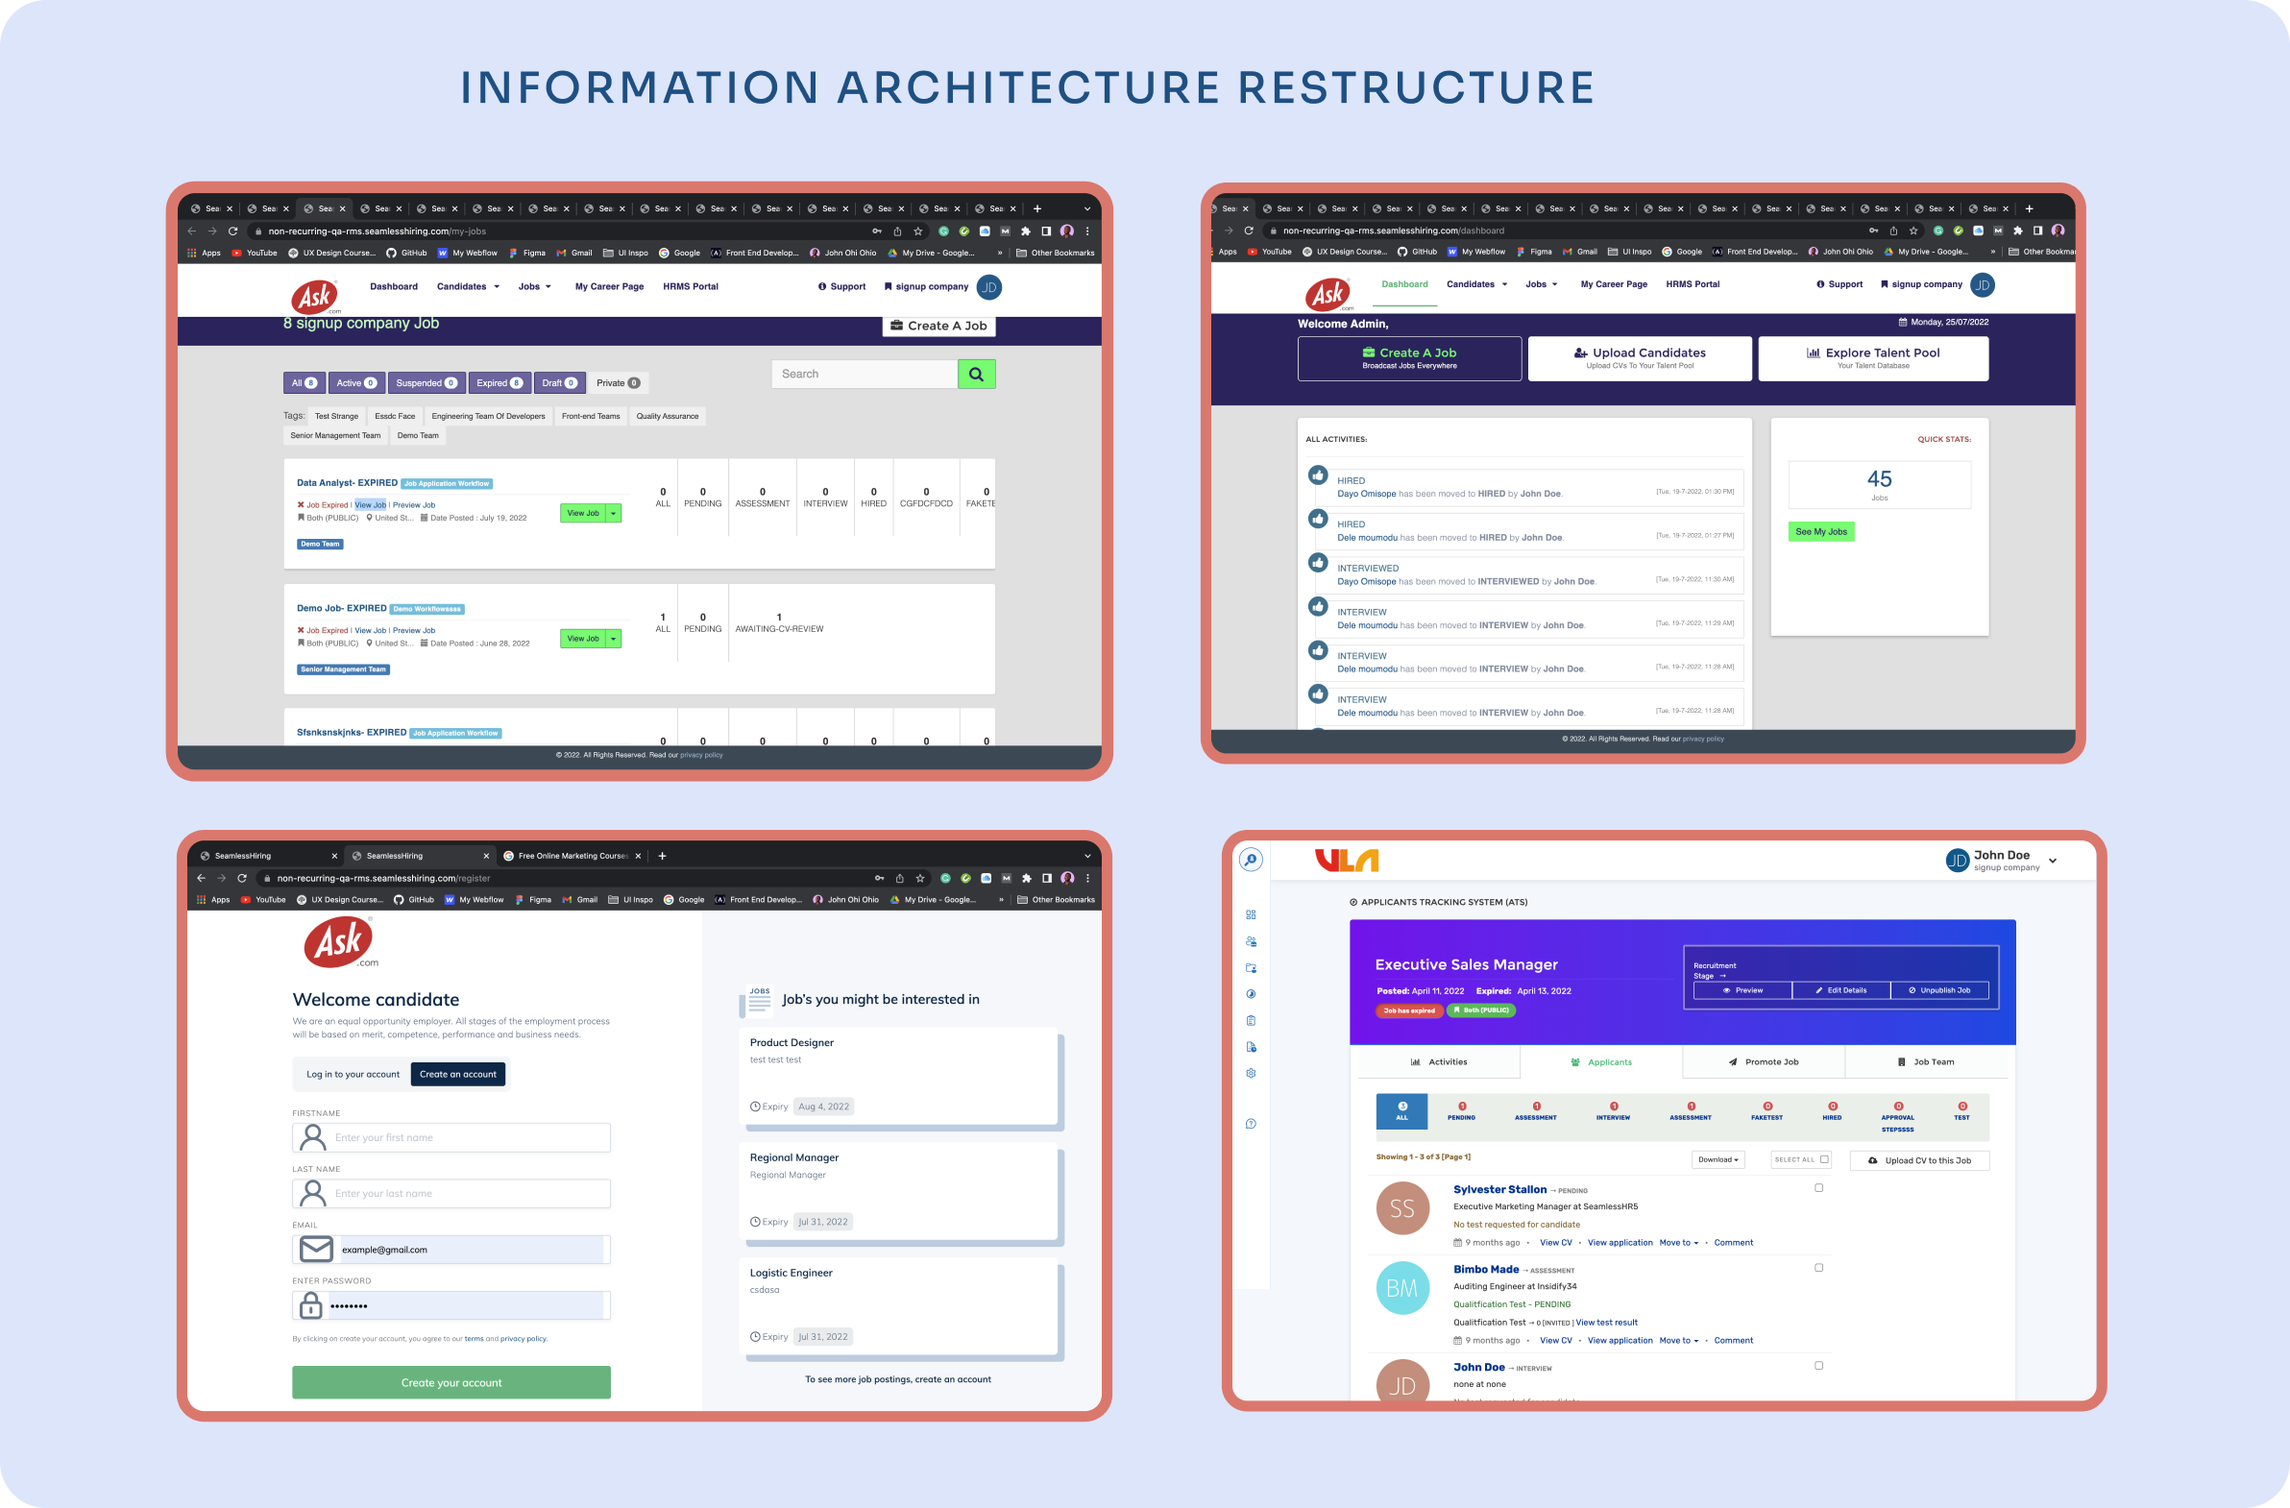
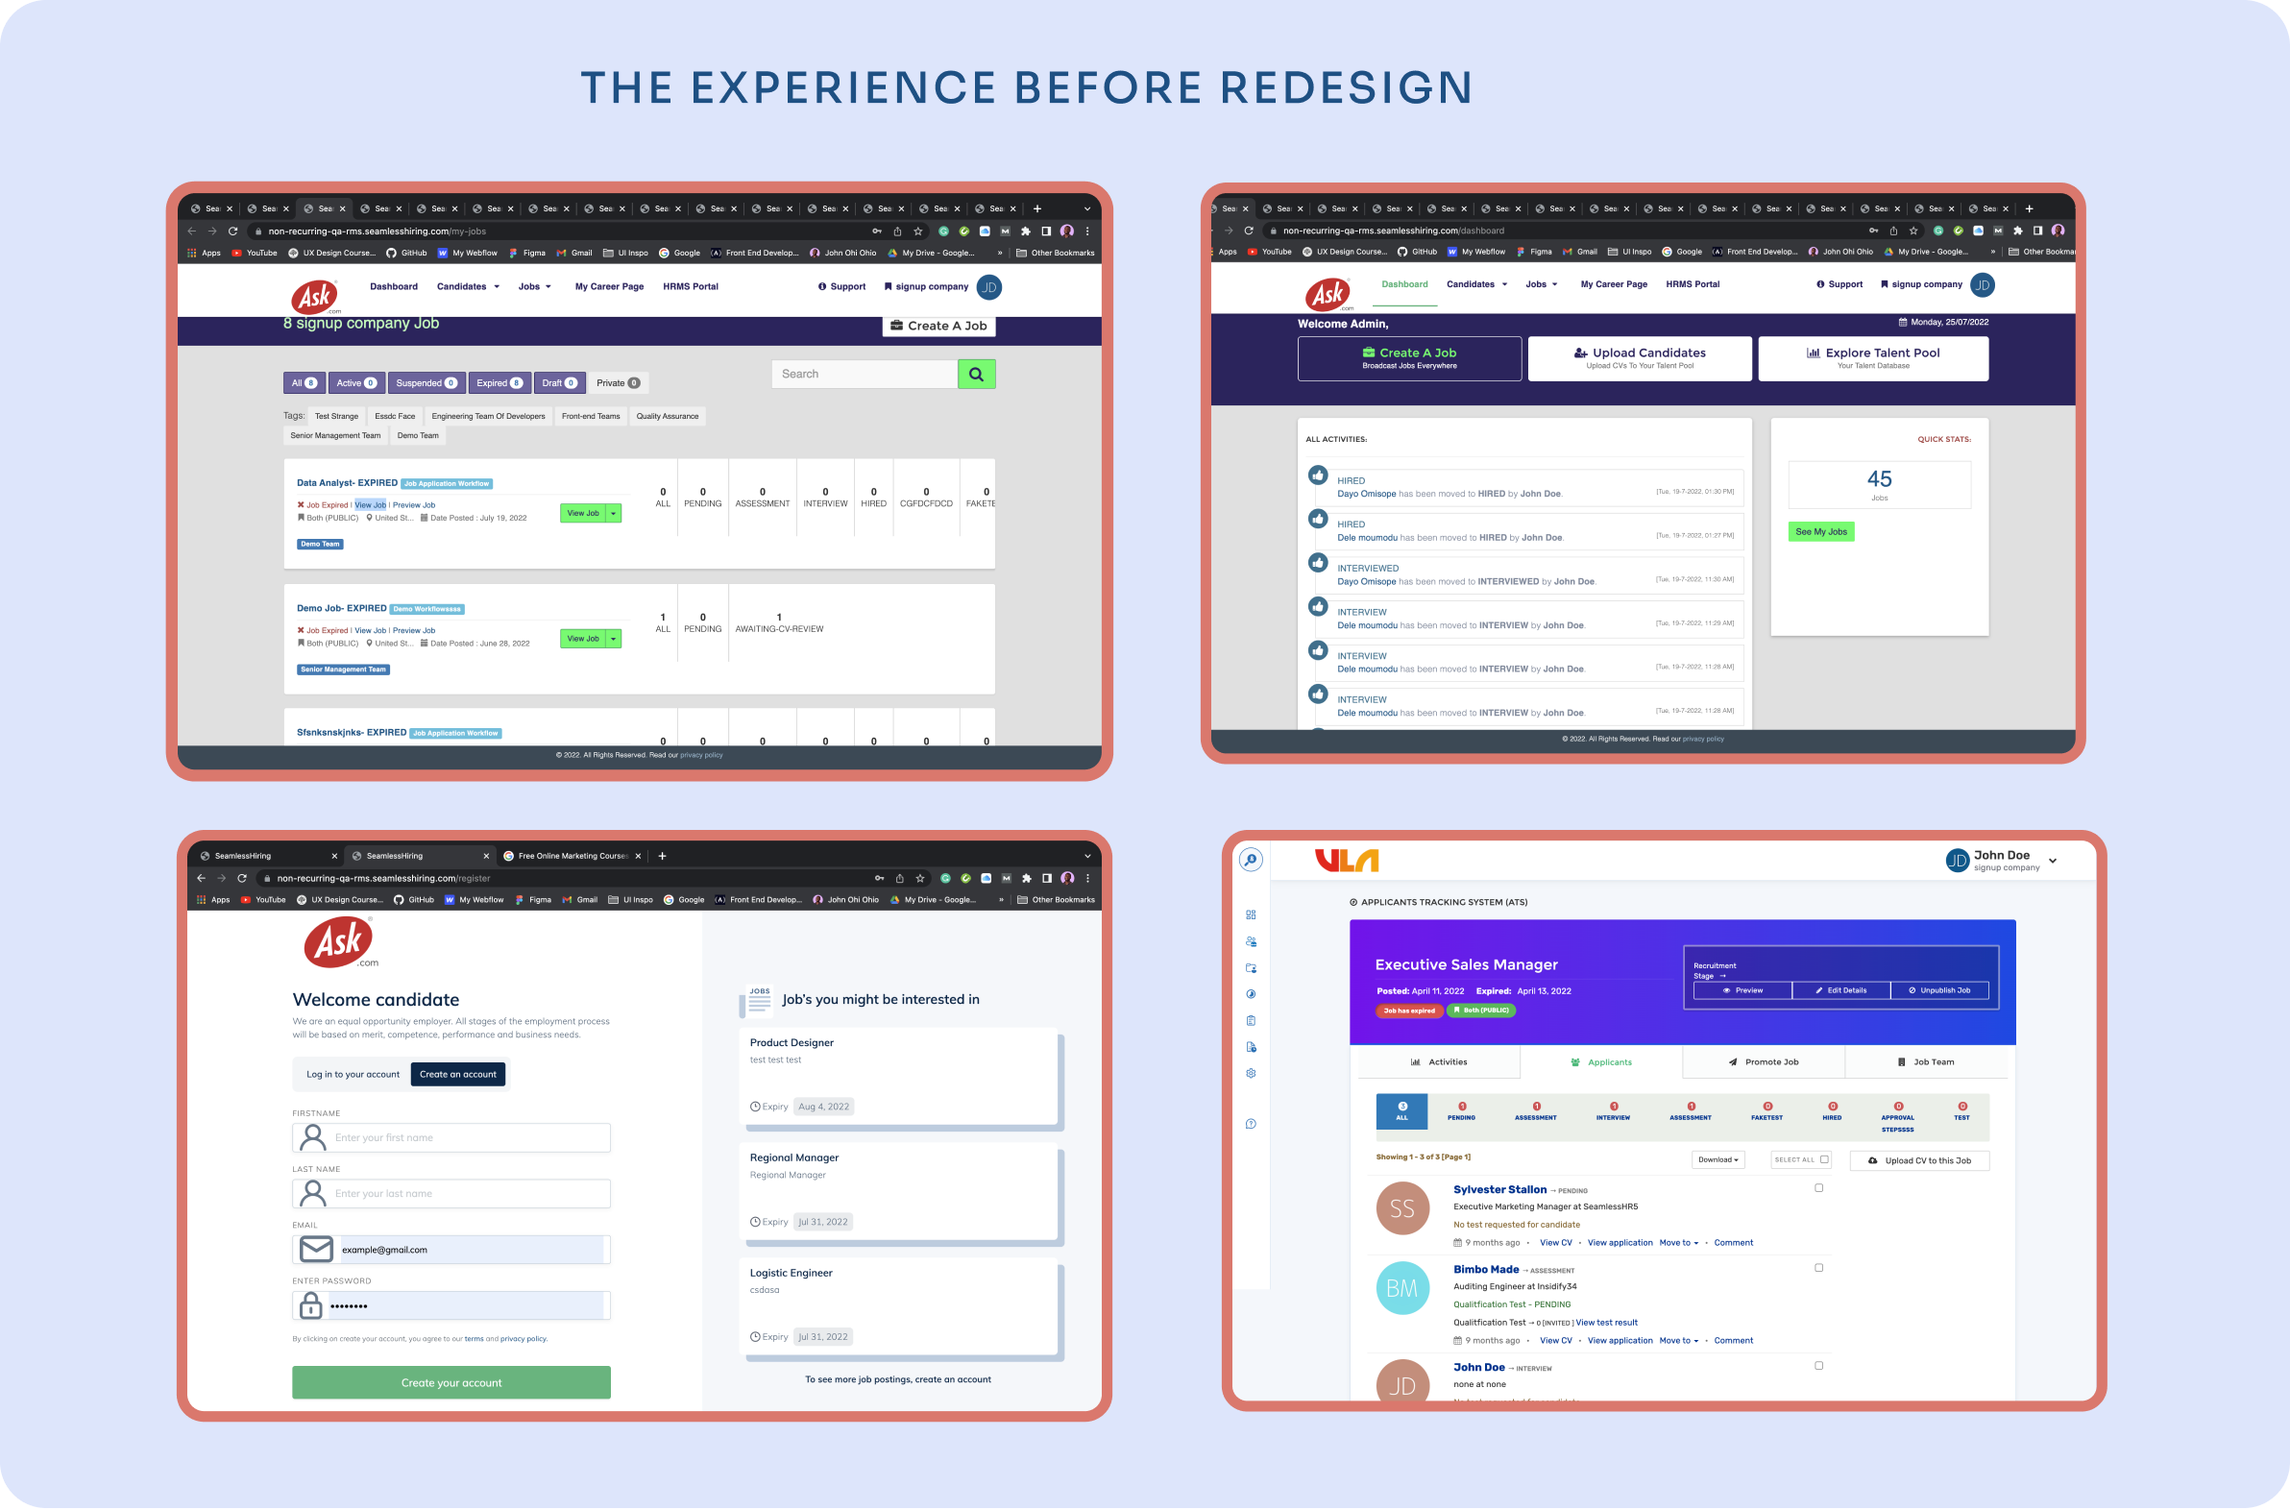
SeamlessHiring: Figma WIP alignment, asset refresh, and editorial pass (#170)
* Align SeamlessHiring case study with Figma WIP sections 0–5 and editorial pass.

Refresh hero and evidence assets from WIP nodes, add IA restructure and phased roadmap figures, wire Phase V AI and YouTube promo, fix chapter nav, and tighten narrative copy.

* Add inline YouTube poster player and remove Continuity block from SeamlessHiring case study.

---------

diff --git a/app/work/seamless-hiring/page.tsx b/app/work/seamless-hiring/page.tsx
@@ -1,7 +1,5 @@
 import type { Metadata } from "next";
-import { existsSync } from "node:fs";
-import path from "node:path";
-import StickyChapterNav from "@/components/case-study/StickyChapterNav";
+import StickyChapterNav, { type Chapter } from "@/components/case-study/StickyChapterNav";
 import ReadingProgressBar from "@/components/case-study/ReadingProgressBar";
 import FlagshipOpener from "@/components/case-study/FlagshipOpener";
 import TensionCards from "@/components/case-study/TensionCards";
@@ -12,6 +10,7 @@ import AnnotatedFigure from "@/components/case-study/AnnotatedFigure";
 import DecisionAccordion from "@/components/case-study/DecisionAccordion";
 import OutcomeCards, { type OutcomeTier } from "@/components/case-study/OutcomeCards";
 import UnlockPanel from "@/components/case-study/UnlockPanel";
+import YouTubePosterPlayer from "@/components/case-study/YouTubePosterPlayer";
 import PrevNextNav from "@/components/case-study/PrevNextNav";
 import { getProject, projects } from "@/lib/projects";
 
@@ -30,6 +29,15 @@ const phases: Phase[] = [
   { id: "phase-III", number: "Phase III", name: "Structure", description: "ATS + evaluation redesign" },
   { id: "phase-IV", number: "Phase IV", name: "Scale", description: "RBAC + enterprise permissions" },
   { id: "phase-V", number: "Phase V", name: "Augment", description: "AI-powered ATS" },
+];
+
+const chapters: Chapter[] = [
+  { id: "brief", label: "01 Brief" },
+  { id: "tensions", label: "02 Tensions" },
+  { id: "evidence", label: "03 Evidence" },
+  { id: "strategic-decisions", label: "04 Decisions" },
+  { id: "outcomes", label: "05 Outcomes" },
+  { id: "unlocks", label: "06 Unlocks" },
 ];
 
 const outcomeTiers: OutcomeTier[] = [
@@ -82,7 +90,7 @@ export default function SeamlessHiringFlagshipCaseStudy() {
   return (
     <div style={{ paddingTop: 56 }}>
       <ReadingProgressBar />
-      <StickyChapterNav />
+      <StickyChapterNav chapters={chapters} />
 
       <style>{`
         @media (max-width: 768px) {
@@ -156,18 +164,34 @@ export default function SeamlessHiringFlagshipCaseStudy() {
         ]}
       />
 
-      <div style={{ maxWidth: 1240, margin: "32px auto 0", padding: "0 24px" }}>
+      <div style={{ maxWidth: 1240, margin: "32px auto 0", padding: "0 24px", display: "flex", flexDirection: "column", gap: 48 }}>
         <AnnotatedFigure
           figure="B"
-          label="Before State — Faulty UI"
+          label="The experience before redesign"
           imageSrc="/assets/work/seamless-hiring/block-before-state.png"
           imageAlt="SeamlessHiring before redesign — broken application flow and navigation"
-          caption="The experience before redesign. Navigation misrouted core tasks, evaluation had no system surface, and permission models blocked enterprise use cases."
+          caption="Navigation misrouted core tasks, evaluation had no system surface, and permission models blocked enterprise use cases."
           decisionNotes={[
             "01 — Workflow collapse: 'Requests' button routed to application history, not the application form — the primary recruiter action was buried behind the wrong entry point",
             "02 — Evaluation without structure: no scoring or assessment surface existed inside the system — evaluation happened in spreadsheets and email threads outside SeamlessHiring entirely",
             "03 — Permission model: rigid access control could not accommodate multi-entity enterprise clients — every new onboarding required manual CS intervention",
           ]}
+        />
+        <AnnotatedFigure
+          figure="C"
+          label="Information Architecture Restructure"
+          imageSrc="/assets/work/seamless-hiring/block-ia-restructure.png"
+          imageAlt="Information architecture restructure — legacy PHP platform mapped to a scalable hiring workflow model"
+          caption="Restructured the product around recruiter and applicant journeys before interface work — separating legacy constraints from the target hiring lifecycle."
+          hideDecisionNotes
+        />
+        <AnnotatedFigure
+          figure="D"
+          label="Phased Redesign Roadmap"
+          imageSrc="/assets/work/seamless-hiring/block-redesign-phases.png"
+          imageAlt="Five-phase SeamlessHiring redesign roadmap spanning stabilization through AI augmentation"
+          caption="The redesign spanned three years across five phases — with an AI-powered layer added only after workflow trust was restored."
+          hideDecisionNotes
         />
       </div>
 
@@ -189,7 +213,7 @@ export default function SeamlessHiringFlagshipCaseStudy() {
             "Job creation was inconsistent across hiring managers — no shared templates, no structured input model, and errors compounding downstream in the pipeline before a role even reached applicants."
           }
           intervention={
-            "Guided job creation templates standardizing inputs and enforcing required fields before a role was published to the applicant-facing system."
+            "Introduced guided job creation templates that standardize inputs and enforce required fields before a role was published to the applicant-facing system."
           }
           figure={{
             figure: 1,
@@ -242,7 +266,7 @@ export default function SeamlessHiringFlagshipCaseStudy() {
           phase="Phase III — Structure"
           layout="text-left"
           challenge={
-            "Interview scoring was informal and undocumented. Evaluation lived in spreadsheets and email threads outside the system, leaving hiring decisions without a defensible trail."
+            "Recruiters were still context-switching between tools for evaluation — the structural gap from tension 02 had not yet been resolved inside the product."
           }
           intervention={
             "Structured evaluation workflows with a shared scoring rubric, documentation trail, and consolidated recruiter action surface."
@@ -308,9 +332,7 @@ export default function SeamlessHiringFlagshipCaseStudy() {
           figure={{
             figure: 5,
             label: "Pilot Review — AI in RMS",
-            imageSrc: existsSync(path.join(process.cwd(), "public", "assets/work/seamless-hiring/pilot-review-ai.png"))
-              ? "/assets/work/seamless-hiring/pilot-review-ai.png"
-              : undefined,
+            imageSrc: "/assets/work/seamless-hiring/pilot-review-ai.png",
             imageAlt: "Pilot Review — AI-assisted candidate ranking and explainable evaluation within recruitment workflows",
             caption:
               "Pilot validation of AI-assisted candidate ranking and explainable evaluation within live recruitment workflows — the Smart Assessment Summary surfaces structured scoring rationale and sentiment signals for recruiter review.",
@@ -323,28 +345,6 @@ export default function SeamlessHiringFlagshipCaseStudy() {
           }}
         />
 
-        <div style={{ padding: "0 24px 64px" }}>
-          <div style={{ maxWidth: 1240, margin: "0 auto" }}>
-            <div style={{ marginTop: 24, paddingTop: 16, borderTop: "1px solid var(--border-subtle)" }}>
-              <span
-                style={{
-                  fontSize: 10,
-                  fontWeight: 500,
-                  letterSpacing: "0.08em",
-                  textTransform: "uppercase",
-                  color: "var(--fg-subtle)",
-                  display: "block",
-                  marginBottom: 6,
-                }}
-              >
-                Continuity
-              </span>
-              <p style={{ fontSize: 14, color: "var(--fg-muted)", fontStyle: "italic", margin: 0 }}>
-                Patterns piloted in SeamlessHiring later informed broader work on SeamlessAI&apos;s reusable enterprise AI interaction layer.
-              </p>
-            </div>
-          </div>
-        </div>
       </div>
 
       <p
@@ -358,7 +358,7 @@ export default function SeamlessHiringFlagshipCaseStudy() {
           padding: "0 24px",
         }}
       >
-        This shift in system design directly enabled improvements in workflow reliability, user adoption, and the commercial positioning of the product.
+        Those structural fixes restored workflow trust first — the judgments below explain what we traded off to get there.
       </p>
 
       <section id="strategic-decisions" style={{ maxWidth: 1240, margin: "0 auto", padding: "80px 24px 0" }}>
@@ -400,6 +400,17 @@ export default function SeamlessHiringFlagshipCaseStudy() {
         </p>
         <p style={{ marginTop: 10, fontSize: 12, color: "var(--fg-subtle)", maxWidth: 760 }}>
           — Femisayo Olofintila, Head of Product Management, SeamlessHR
+        </p>
+      </div>
+
+      <div style={{ maxWidth: 1240, margin: "80px auto 0", padding: "0 24px" }}>
+        <YouTubePosterPlayer
+          videoId="uHZ1-KpyJyo"
+          posterSrc="/assets/work/seamless-hiring/promo-video-poster.png"
+          title="SeamlessHiring promotional video"
+        />
+        <p style={{ marginTop: 16, fontSize: 13, lineHeight: 1.6, color: "var(--fg-muted)" }}>
+          Promotional overview of SeamlessHiring 2.0.
         </p>
       </div>
 

diff --git a/components/case-study/YouTubePosterPlayer.tsx b/components/case-study/YouTubePosterPlayer.tsx
@@ -1,0 +1,110 @@
+"use client";
+
+import { useState } from "react";
+
+export type YouTubePosterPlayerProps = {
+  videoId: string;
+  posterSrc: string;
+  title: string;
+  /** CSS aspect-ratio value — default matches promo poster (1192×596). */
+  aspectRatio?: string;
+};
+
+export default function YouTubePosterPlayer({
+  videoId,
+  posterSrc,
+  title,
+  aspectRatio = "1192 / 596",
+}: YouTubePosterPlayerProps) {
+  const [playing, setPlaying] = useState(false);
+
+  return (
+    <div
+      style={{
+        borderRadius: 8,
+        border: "1px solid var(--border)",
+        overflow: "hidden",
+        background: "var(--surface)",
+      }}
+    >
+      <div style={{ position: "relative", width: "100%", aspectRatio }}>
+        {playing ? (
+          <iframe
+            src={`https://www.youtube.com/embed/${videoId}?autoplay=1&rel=0`}
+            title={title}
+            allow="accelerometer; autoplay; clipboard-write; encrypted-media; gyroscope; picture-in-picture; web-share"
+            allowFullScreen
+            style={{
+              position: "absolute",
+              inset: 0,
+              width: "100%",
+              height: "100%",
+              border: 0,
+              display: "block",
+            }}
+          />
+        ) : (
+          <button
+            type="button"
+            onClick={() => setPlaying(true)}
+            aria-label={`Play ${title}`}
+            style={{
+              position: "absolute",
+              inset: 0,
+              width: "100%",
+              height: "100%",
+              padding: 0,
+              margin: 0,
+              border: "none",
+              cursor: "pointer",
+              display: "block",
+              background: "transparent",
+            }}
+          >
+            {/* eslint-disable-next-line @next/next/no-img-element */}
+            <img
+              src={posterSrc}
+              alt=""
+              aria-hidden
+              style={{
+                width: "100%",
+                height: "100%",
+                objectFit: "cover",
+                display: "block",
+              }}
+            />
+            <span
+              aria-hidden
+              style={{
+                position: "absolute",
+                inset: 0,
+                display: "flex",
+                alignItems: "center",
+                justifyContent: "center",
+                background: "rgba(0, 0, 0, 0.12)",
+                transition: "background 0.2s ease",
+              }}
+            >
+              <span
+                style={{
+                  width: 72,
+                  height: 72,
+                  borderRadius: "50%",
+                  background: "rgba(255, 255, 255, 0.88)",
+                  display: "flex",
+                  alignItems: "center",
+                  justifyContent: "center",
+                  boxShadow: "0 8px 28px rgba(0, 0, 0, 0.2)",
+                }}
+              >
+                <svg width="26" height="26" viewBox="0 0 24 24" fill="var(--fg)" aria-hidden>
+                  <path d="M8 5.14v13.72L19 12 8 5.14z" />
+                </svg>
+              </span>
+            </span>
+          </button>
+        )}
+      </div>
+    </div>
+  );
+}

diff --git a/lib/projects.ts b/lib/projects.ts
@@ -296,7 +296,7 @@ export const projects: Project[] = [
     scope:
       "Applicant and recruiter workflows, research synthesis, roadmap definition, and cross-functional delivery with PM, engineering, CX, and sales.",
     metrics: [
-      { value: "↓50%", label: "Support tickets" },
+      { value: "↓50%", label: "Support volume" },
       { value: "↓24%", label: "Application drop-offs" },
       { value: "↑40%", label: "User satisfaction" },
       { value: "27→74", label: "NPS" },
